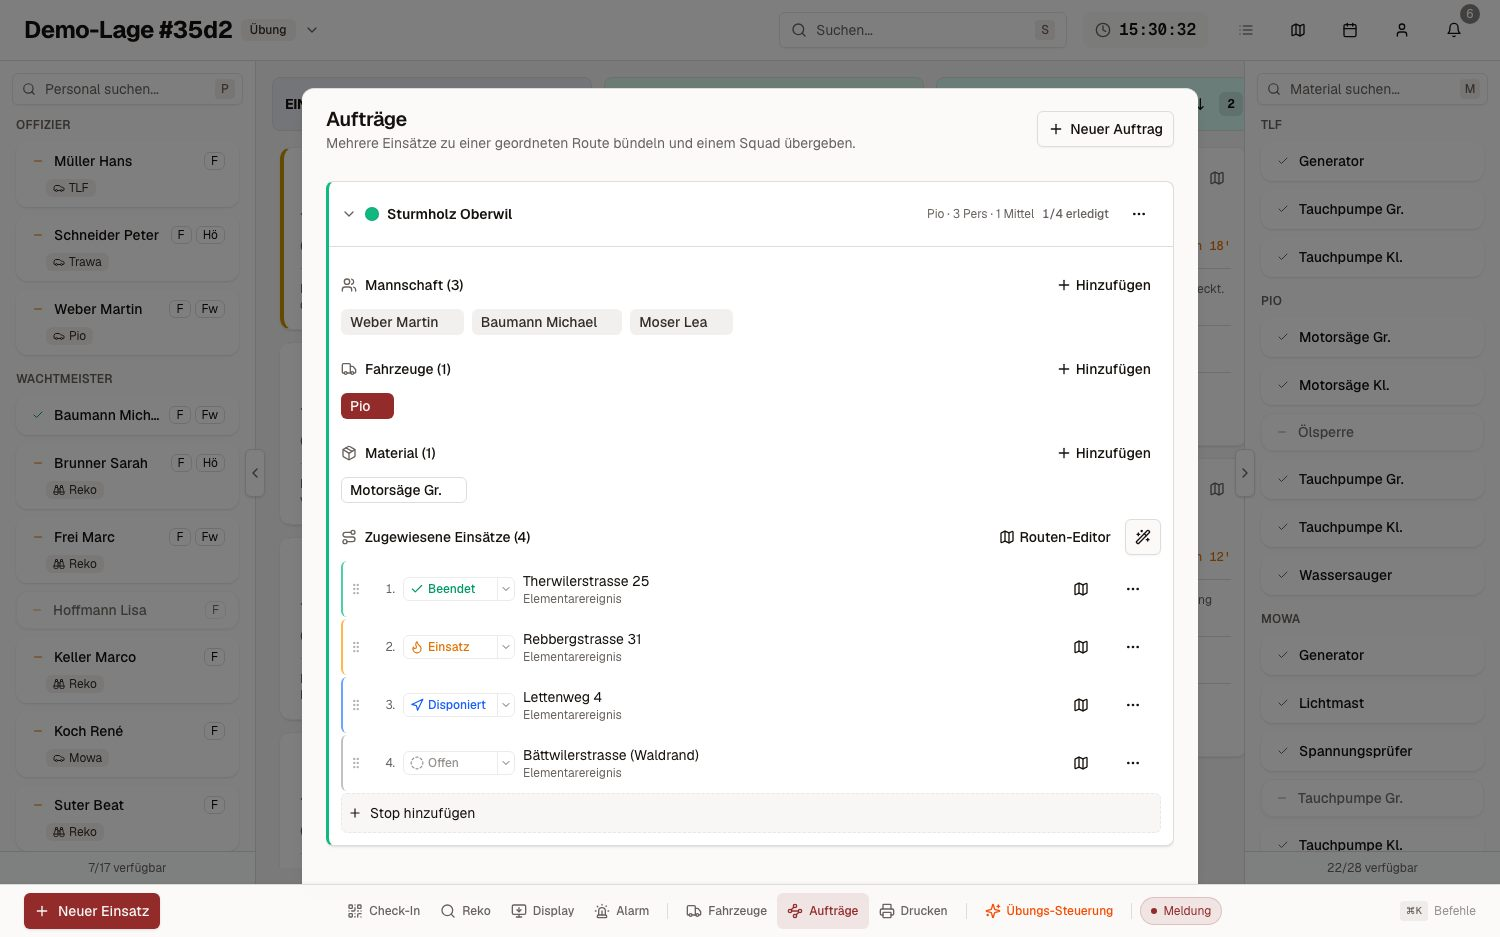
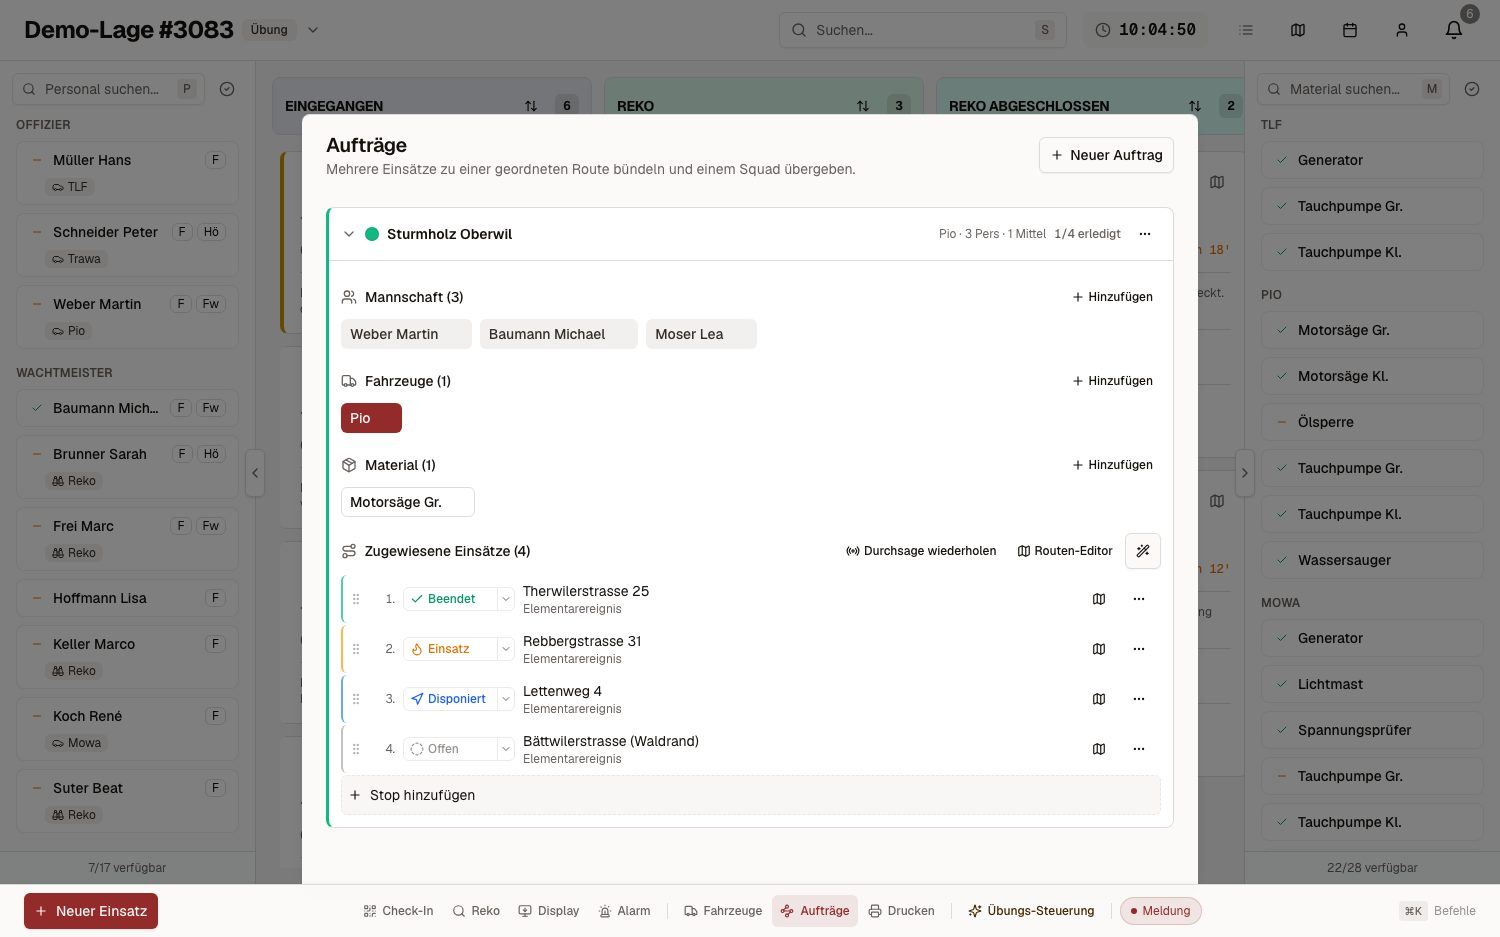
chore(site): Screenshots neu aufgenommen, Harness deckt die README-Bilder mit ab
Jedes Bild im Repository war älter als a4cc80c — die Aufnahmen zeigten die
Oberfläche vor der Design-Vereinheitlichung. Neu aufgenommen gegen die öffentliche
Demo, die `main` folgt.

Der eigentliche Fund war aber die Zweiteilung: site/shots/ entstand automatisiert und
blieb aktuell, docs/images/ wurde von Hand geschossen und war ein halbes Jahr alt
(1000 px breit). Beide entstehen jetzt aus demselben Seitenzustand — ein Shot mit
`docs:` schreibt zusätzlich das README-Bild —, weshalb sie gar nicht mehr
auseinanderlaufen können.

`--scale` und `--docs-only` dazu, weil die beiden Ausgaben nicht dieselbe Auflösung
wollen: die Landingpage bettet die Bilder inline ein, da zählt Seitengewicht; die
README-Bilder werden auf GitHub vergrössert betrachtet. Der Ablauf steht in
site/README.md.

Nebenbei zwei Fehler:

- training.jpg zeigte den Alarmeingang-Knopf und die Alarmweg-Auswahl, die 6ab48ac
  entfernt hat. Die Landingpage warb also für eine Funktion, die es nicht mehr gibt;
  der Alt-Text nannte sie ebenfalls.
- Das Verlauf-Sheet blieb nach seinem Shot offen, und sein Scrim fing jeden weiteren
  Klick ab — der nächste Shot lief in den Timeout, statt aufzunehmen. Deshalb war
  rapport.jpg drei Tage älter als der Rest, ohne dass es jemandem auffiel.

diff --git a/site/index.html b/site/index.html
@@ -268,7 +268,7 @@
         </figcaption>
       </figure>
       <figure class="shot">
-        <img src="shots/training.jpg" alt="Übungs-Steuerung: generierte Einsätze, Alarmwege und Automatik" width="1500" height="937" loading="lazy" decoding="async">
+        <img src="shots/training.jpg" alt="Übungs-Steuerung: einzelne oder gezielte Einsätze generieren, Automatik und Feld-Simulation" width="1500" height="937" loading="lazy" decoding="async">
         <figcaption>
           <div class="cap-t">Übung</div>
           <div class="cap-s">Übungslagen einspeisen, statt sie zu erfinden – sauber vom Ernstfall getrennt</div>

diff --git a/site/README.md b/site/README.md
@@ -57,3 +57,18 @@ unterscheidet sich: Inhalt, Bilder und die gegenseitige Verlinkung
 `site/` ist direkt ausrollbar (statische Dateien, keine Server-Logik). `dist/index.html` aus
 `build.mjs` ist dieselbe Seite als eine einzige Datei mit eingebetteten Schriften und Bildern –
 zum Weitergeben oder für einen Host, der nur eine Datei annimmt.
+
+### README-Bilder
+
+Shots mit `docs:` schreiben denselben Seitenzustand zusätzlich als PNG nach `docs/images/` —
+das ist der Grund, warum die README-Bilder früher ein halbes Jahr älter waren als die
+Landingpage. Beide Ausgaben entstehen aus einer Aufnahme, wollen aber nicht dieselbe
+Auflösung: die Landingpage bindet die Bilder inline ein (1x, Seitengewicht zählt), die
+README-Bilder werden auf GitHub vergrössert betrachtet.
+
+```bash
+node site/capture.mjs                    # Landingpage-JPEGs (1x) + README-PNGs
+node site/capture.mjs --scale 2 --docs-only --only board,karte
+```
+
+`--docs-only` lässt die JPEGs unangetastet. Aktuell liegen die README-Bilder bei 1500 px Breite.
